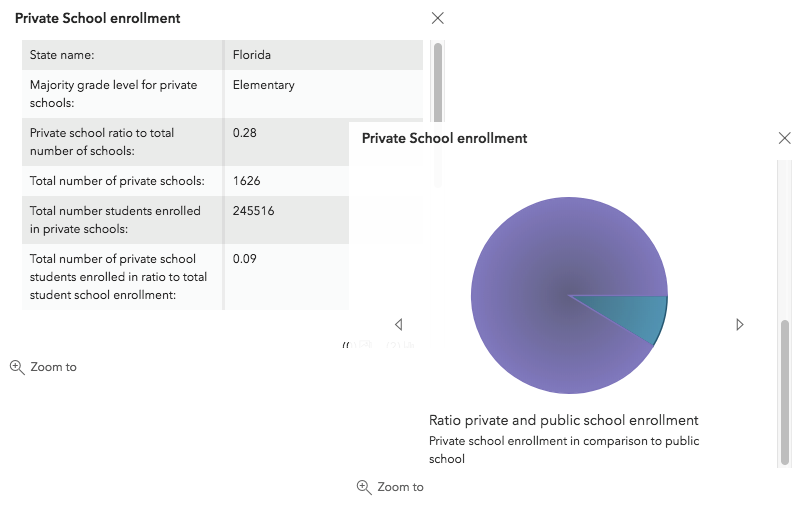
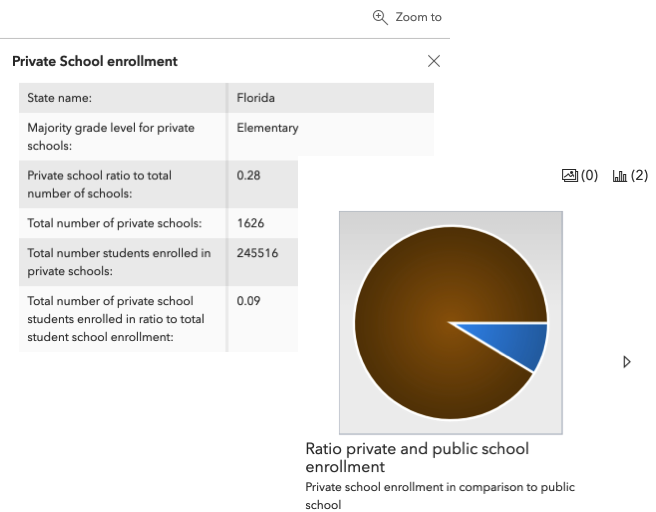
Intro session - removed filtering section and updated PopupTemplate image for chart

diff --git a/Dev-Summit-2019/Getting-started-web-dev/index.md b/Dev-Summit-2019/Getting-started-web-dev/index.md
@@ -219,9 +219,10 @@ layer.watch("loadStatus", function(status) {// do something});
 <pre style="display:inline-block; padding: 5px; margin: 10px auto; width: 99%;"><code data-trim>
 var layerRenderer = new UniqueValueRenderer(); // Set the renderer
 var featurelayer = new FeatureLayer({
-    url: "<featurelayer url>",
+    url: "featurelayer url",
     renderer: layerRenderer // pass in renderer to featurelayer using default properties
 })
+
 </code></pre>
 
 ----
@@ -307,39 +308,6 @@ var featurelayer = new FeatureLayer({
 </br>
 <a href="Demos/Step4_Popup/" target="_blank">
   <img style="float: center;" src="Images/Step4_Demo.png">
-</a>
-
-----
-
-### **Filtering data**
-
-- FeatureLayer definition expressions
-  - Where clause filters features on the client
-  - Use with large datasets
-- FeatureLayer <a href="https://developers.arcgis.com/javascript/latest/api-reference/esri-layers-FeatureLayer.html#querying" target="_blank">queries</a>
-</br>
-</br>
-
-<pre style="display:inline-block; padding: 5px; margin: 10px auto; width: 75%;"><code data-trim>
-var select = dom.byId("selectState");
-on(select, "change", function(e) {
-  var featureId = select.value;
-  var expr = select.value === "" ? "" : "FID = '" + featureId + "'";
-  privateSchoolsPoly.definitionExpression = expr;
-</code></pre>
-<pre style="display:inline-block; padding: 5px; margin: 10px auto; width: 75%;"><code data-trim>
-privateSchoolsPoly.queryFeatures().then(function(results) {
-  results.features.forEach(function(feature) {
-    var featureId = feature.attributes.FID;
-    ...
-</code></pre>
-
-----
-
-### **Demo: Filter features within a layer**
-
-<a href="Demos/Step5_LayerFilter/" target="_blank">
-  <img style="float: center;" src="Images/Step5_Demo.png">
 </a>
 
 
